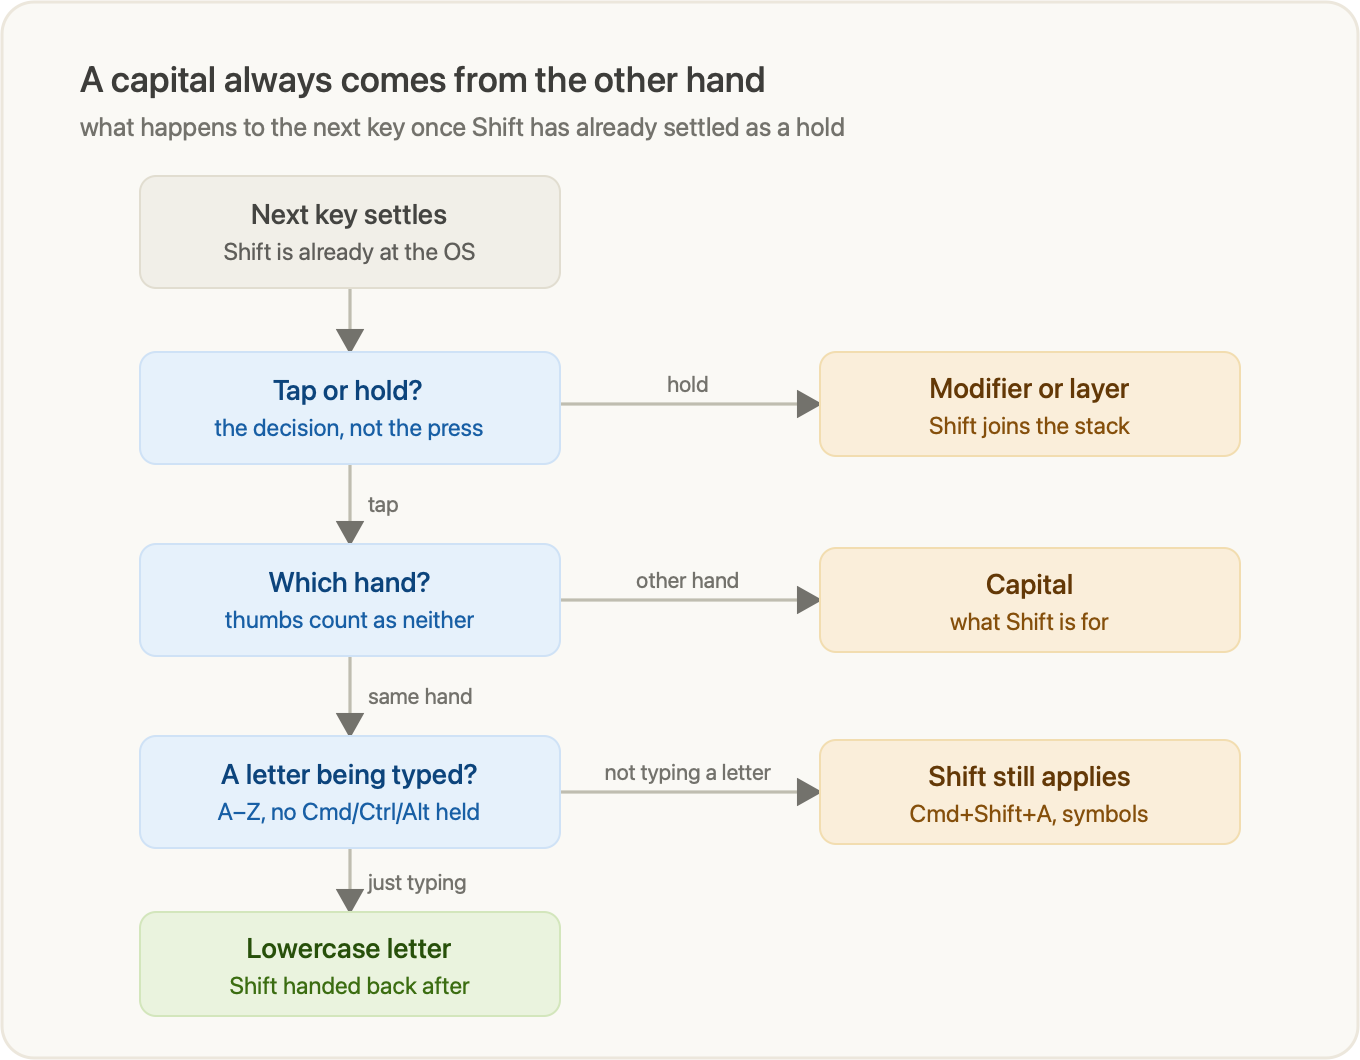
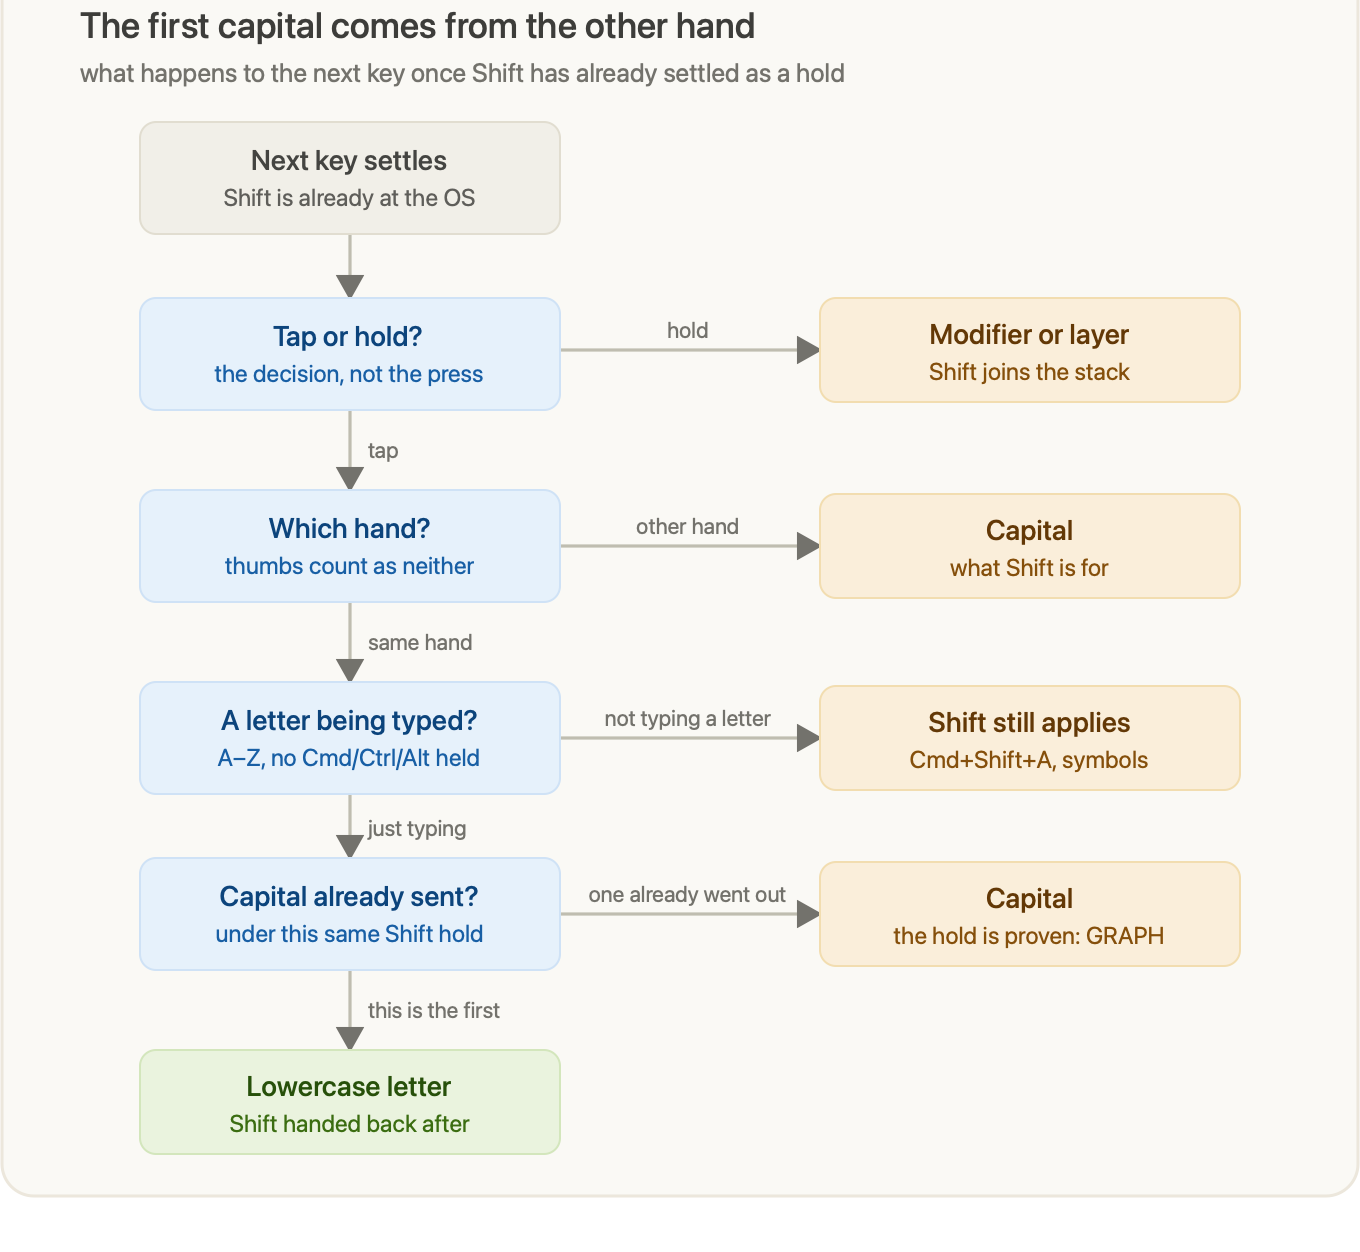
keep shift for the rest of the hold once it has produced a capital

diff --git a/snippets/keymap.c.snippet.js b/snippets/keymap.c.snippet.js
@@ -150,6 +150,13 @@ static uint8_t held_shift_hands = 0;
 static uint8_t held_shift_mod_bits_left  = 0;
 static uint8_t held_shift_mod_bits_right = 0;
 
+// Hands whose held Shift has already put a capital on the wire -- an
+// opposite-hand letter went out under it. That capital is proof the hold was
+// meant, so for the rest of it the same-hand guard stands down and every
+// following letter capitalises too: GRAPH, not GRAph. Cleared with the hold, so
+// the next Shift press starts guarded again.
+static uint8_t shift_capital_produced_hands = 0;
+
 // Shift bits taken off the report for one same-hand keypress (see the guard
 // below), plus the lending hand and the key that borrowed them so they can be
 // handed back.
@@ -259,13 +266,21 @@ uint16_t get_quick_tap_term(uint16_t keycode, keyrecord_t *record) {
     }
 }
 
-// A capital must always come from the OTHER hand. Chordal Hold already enforces
+// The FIRST capital must come from the OTHER hand. Chordal Hold already enforces
 // that while the Shift mod-tap is still undecided, but once Shift has settled as
 // a hold -- the tapping term expired with no interrupting key -- nothing stops
 // the next same-hand letter from being capitalised: that is eindeliJK coming out
 // as eindeliK. So while a Shift mod-tap is held, a letter on the SAME hand has
 // Shift stripped from its report and typed lowercase; Shift is handed back right
 // after, still live for the next off-hand key.
+//
+// That suspicion is only warranted until the hold proves itself. An accidental
+// hold is one the user never meant, so it never gets an off-hand capital out of
+// the way first -- whereas a deliberate one does, immediately. So the moment an
+// opposite-hand letter goes out capitalised, the hold is proven and the guard
+// stands down for the rest of it: GRAPH stays GRAPH instead of turning into
+// GRAph when the word crosses back to the Shift's own hand. The proof is per
+// hand and dies with the hold, so the next Shift press is guarded again.
 //
 // The Shift key's own letter is deliberately NOT typed out here. By the time the
 // guard runs, Shift has already gone to the OS as a modifier -- that decision is
@@ -286,7 +301,8 @@ static void apply_same_hand_shift_guard(uint16_t keycode, keyrecord_t *record) {
         // see held_shift_hands. Its Shift is being unregistered right now, so any
         // borrowed Shift is dropped rather than handed back.
         if (is_shift_mod_tap(keycode) && key_hand != 0) {
-            held_shift_hands &= ~key_hand;
+            held_shift_hands             &= ~key_hand;
+            shift_capital_produced_hands &= ~key_hand;
             if (key_hand == SHIFT_HAND_LEFT) {
                 held_shift_mod_bits_left  = 0;
             } else {
@@ -307,9 +323,9 @@ static void apply_same_hand_shift_guard(uint16_t keycode, keyrecord_t *record) {
     // previous keypress goes back before this one is judged on its own merits.
     restore_stripped_shift();
 
-    // Guard only same-hand keys: '*' thumbs, no Shift held, and a Shift held on
-    // the opposite hand all pass through untouched.
-    if (key_hand == 0 || held_shift_hands != key_hand) return;
+    // Nothing to weigh without a Shift mod-tap down, and a '*' thumb belongs to
+    // neither hand, so it is never same-hand and never a capital either.
+    if (key_hand == 0 || held_shift_hands == 0) return;
 
     // A tap-hold key that settled as a HOLD is a modifier or a layer, never a
     // letter -- D held past its term is Cmd, so leave Shift alone and let the
@@ -321,10 +337,29 @@ static void apply_same_hand_shift_guard(uint16_t keycode, keyrecord_t *record) {
     if (tap_keycode < KC_A || tap_keycode > KC_Z) return;  // letters only
 
     // A GUI/Ctrl/Alt already down means this is a shortcut chord, not typing --
-    // Shift belongs in it. Cmd+Shift+A must stay Cmd+Shift+A even though A sits
-    // on the same hand as the Shift (and A is itself a mod-tap, so it does reach
+    // Shift belongs in it and no capital is being written either, so this counts
+    // for neither side. Cmd+Shift+A must stay Cmd+Shift+A even though A sits on
+    // the same hand as the Shift (and A is itself a mod-tap, so it does reach
     // this point as a settled tap).
     if ((get_mods() & ~MOD_MASK_SHIFT) != 0) return;
+
+    // An opposite-hand letter under a live Shift IS the capital, and it goes out
+    // untouched. Remember that it did: from here until the Shift is released the
+    // hold is proven deliberate, so the guard below stands down and the rest of
+    // the word capitalises with it.
+    if ((held_shift_hands & key_hand) == 0) {
+        if ((get_mods() & MOD_MASK_SHIFT) != 0) {
+            shift_capital_produced_hands |= held_shift_hands;
+        }
+        return;
+    }
+
+    // A Shift held on the opposite hand as well always wins.
+    if (held_shift_hands != key_hand) return;
+
+    // The capital run: this hold has already written a capital, so the letter is
+    // meant to be one too -- GRAPH rather than GRAph.
+    if ((shift_capital_produced_hands & key_hand) != 0) return;
 
     // Borrow only the bits the same-hand mod-tap itself registered. Shift from
     // any other source (a plain Shift key, Caps Word) is deliberate and stays,

diff --git a/README.md b/README.md
@@ -92,7 +92,7 @@ decisions to choose tap vs hold. The order matters:
 > **No interrupting key at all:** the tapping term simply expires and the key
 > resolves on plain release (tap) vs continued hold (hold) — none of the three
 > callbacks are consulted. This is the gap the
-> [same-hand Shift guard](#a-capital-always-comes-from-the-other-hand) closes.
+> [same-hand Shift guard](#the-first-capital-comes-from-the-other-hand) closes.
 
 **Whether a key opts into eager hold (step 2) is itself per-key**, and that split
 is where most of the feel is tuned:
@@ -102,8 +102,8 @@ is where most of the feel is tuned:
   sentence-start capital like `Ik` is instant. Mid-flow it eager-holds only
   before the keys marked in `shift_hold_on_other_layout` (opposite-hand numbers
   & symbols), so `F` + `/` → `?` is instant while `fish` stays `fish`. Whichever
-  way it settles, a same-hand letter afterwards is still typed lowercase. (See
-  below.)
+  way it settles, the *first* same-hand letter afterwards is still typed
+  lowercase. (See below.)
 - **GUI / Ctrl / Alt** (`D`/`K`, `S`/`L`, `A`/`;`) — *timeout only*: no eager
   hold at all, so a fast roll can never flip one into an accidental mod; you hold
   past the tapping term to get the mod.
@@ -188,7 +188,7 @@ turn into a mod mid-word. This term is the only thing standing between a letter
 and a modifier: once it expires, Shift is on the wire and the guard below can
 suppress it for a keypress but never take it back.
 
-### A capital always comes from the other hand
+### The first capital comes from the other hand
 
 Everything above decides the tap-vs-hold question *while the Shift is still
 undecided*, and Chordal Hold guarantees the handedness there. But once Shift has
@@ -197,10 +197,10 @@ guarantee is gone: the next key is processed with Shift already registered, so a
 same-hand roll capitalises. That's `eindelijk` coming out as `eindeliK`, because
 `J` (right Shift) was held a fraction too long before `K` (also right hand).
 
-So while a Shift mod-tap is held, a **letter on the same hand** has Shift
-stripped from its report and is typed lowercase:
+So while a Shift mod-tap is held, the **first letter on the same hand** has
+Shift stripped from its report and is typed lowercase:
 
-![Once Shift has settled as a hold, a hold builds a modifier stack, an opposite-hand key capitalises, and only a same-hand letter typed outside a chord is forced lowercase.](docs/same-hand-guard.png)
+![Once Shift has settled as a hold, a hold builds a modifier stack, an opposite-hand key capitalises, and a same-hand letter typed outside a chord is forced lowercase only until this hold has sent its first capital.](docs/same-hand-guard.png)
 
 The guard is deliberately narrow — it only ever touches `KC_A`–`KC_Z` on the
 same hand, so `Shift`+symbol, `Shift`+arrow, `Shift`+thumb and shift-click are
@@ -210,6 +210,19 @@ other source (a plain `Shift` key on another layer, Caps Word) is deliberate
 and is left in the report, so its capital is typed. Shift is handed back on the
 next key event, so it's borrowed for exactly one keypress and not for the rest
 of the hold: `F`-held → `e` → `o` gives `eO`.
+
+**The guard stands down once the hold proves itself.** Stripping same-hand
+letters for the *whole* hold breaks the other direction: typing `GRAPH` with
+right Shift held, `G`/`R`/`A` capitalise from the left hand but `P` and `H` come
+back to the Shift's own hand and would be forced lowercase — `GRAph`. The two
+cases separate cleanly on what happened *before* the same-hand letter. An
+accidental hold (`eindelijk`) never gets an opposite-hand capital out first —
+the same-hand letter is the very next thing that happens. A deliberate one puts
+a capital on the wire immediately. So the first opposite-hand letter typed under
+a live Shift is treated as proof the hold was meant, and from that point until
+the Shift is released the guard is off and every following letter capitalises,
+whichever hand it's on. The proof is tracked per hand and cleared with the hold,
+so the next Shift press starts guarded again — `eindeliK` stays fixed.
 
 **Modifier stacks are safe**, because the guard runs on the tap-vs-hold
 *decision* rather than on the physical press. For a tap-hold key, QMK's
